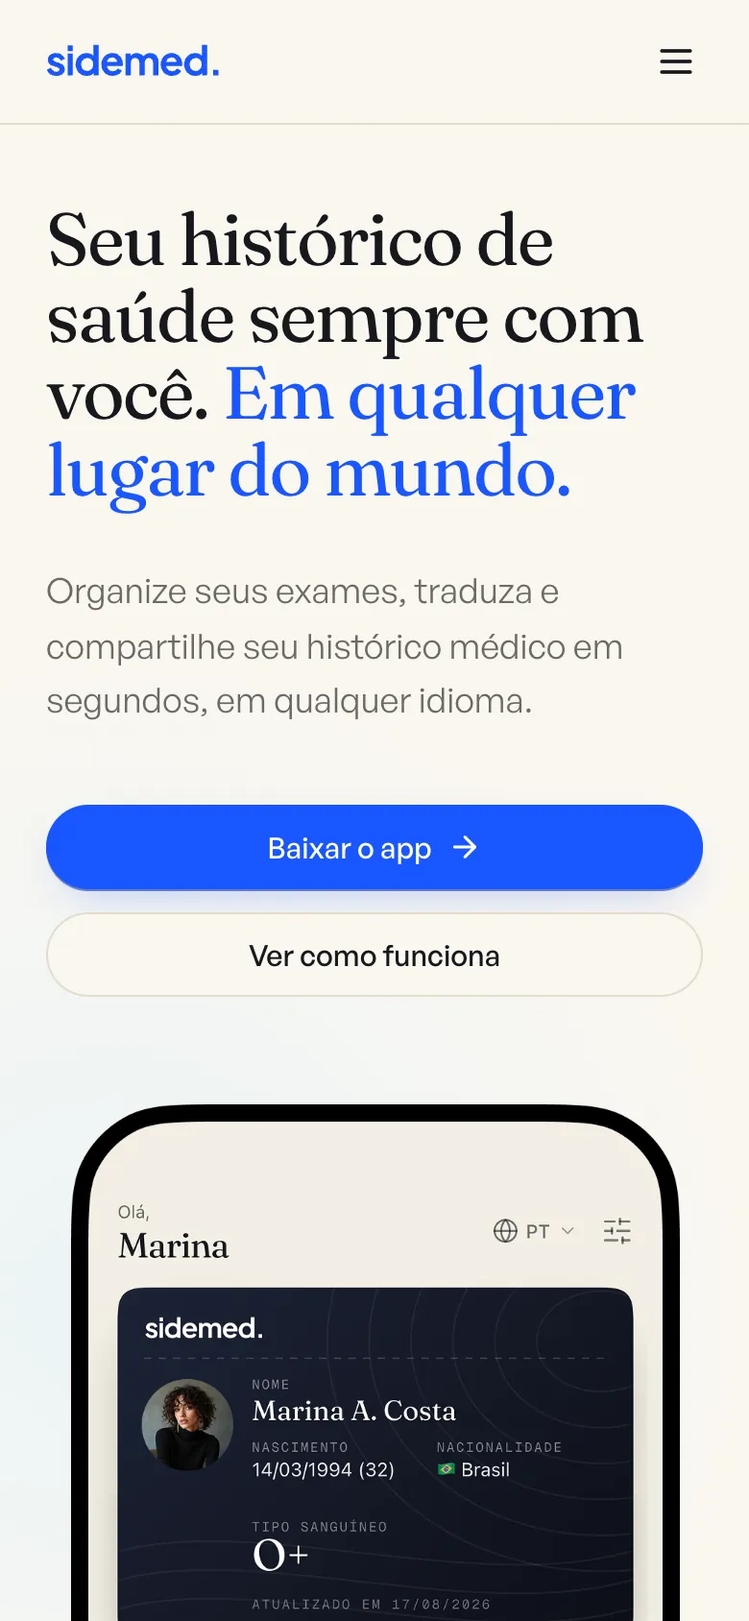
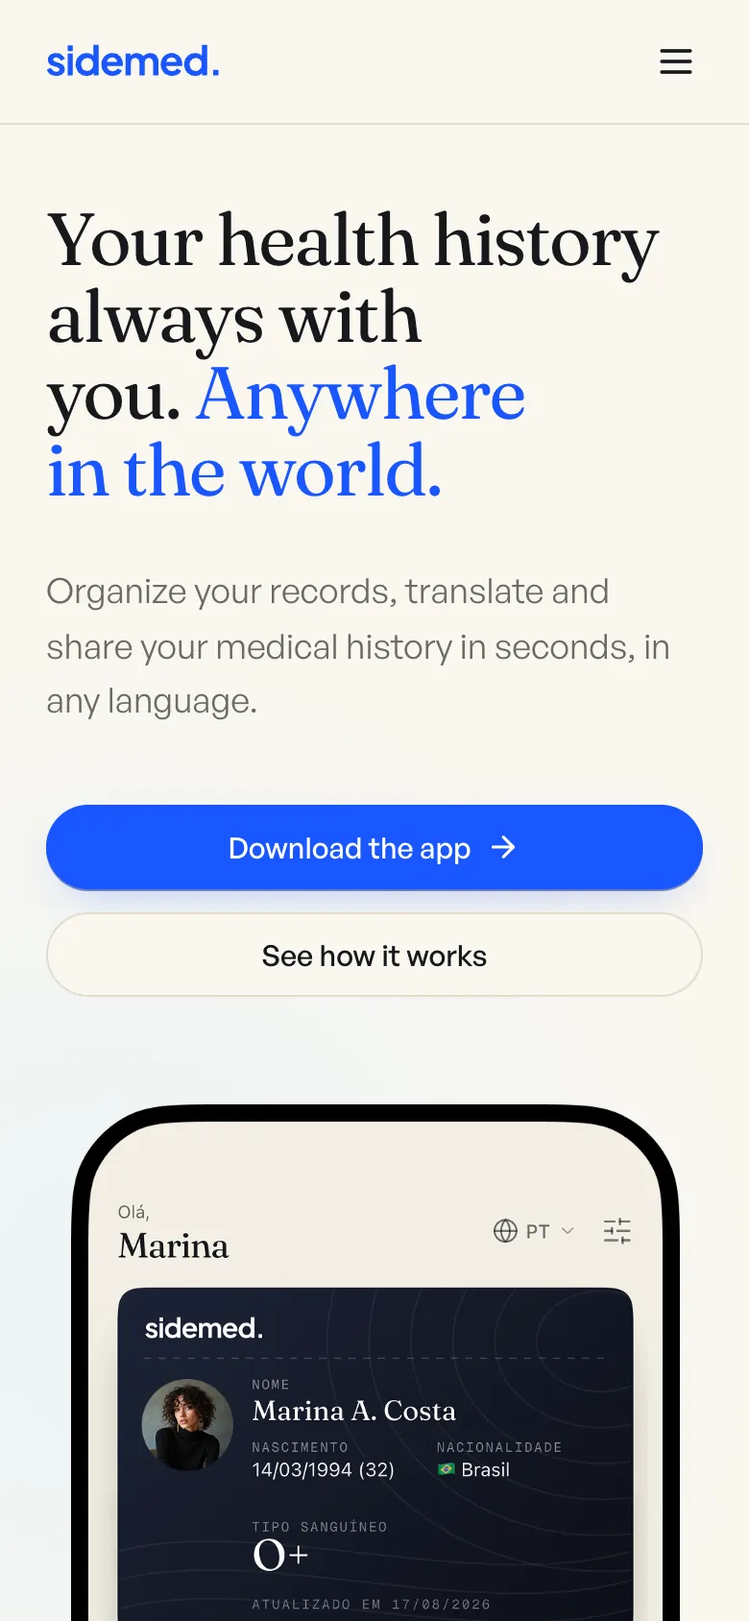
Rewrite the Sidemed story as a product story; sector-only card labels
- Sidemed's page now tells how it was conceived, planned and built:
  the question it answers, the passport idea, decisions made for the
  worst moment (seconds, no signal, privacy), and where it is today
  (used in 17 countries). The prototype screenshots and their caption
  are gone; the figures are clean sections of the live site (doctor
  page, security) and the phone view, each in the page's language.
- Home cards show only the sector: Sales, Marketplace, Health
  (PT: Vendas, Marketplace, Saúde).

diff --git a/pt/work/sidemed/index.html b/pt/work/sidemed/index.html
@@ -4,10 +4,10 @@
 <meta charset="utf-8">
 <meta name="viewport" content="width=device-width, initial-scale=1">
 <title>Sidemed: app de passaporte de saúde | Adscendo</title>
-<meta name="description" content="Como a Sidemed, um app de passaporte de saúde, saiu de um problema na fronteira para um app nativo de iOS e um site novo em 2026.">
+<meta name="description" content="Como a Sidemed, um app de passaporte de saúde hoje usado em 17 países, foi concebida, planejada e construída por nós.">
 <meta property="og:site_name" content="Adscendo">
 <meta property="og:title" content="Sidemed: app de passaporte de saúde | Adscendo">
-<meta property="og:description" content="Como a Sidemed, um app de passaporte de saúde, saiu de um problema na fronteira para um app nativo de iOS e um site novo em 2026.">
+<meta property="og:description" content="Como a Sidemed, um app de passaporte de saúde hoje usado em 17 países, foi concebida, planejada e construída por nós.">
 <meta property="og:type" content="website">
 <meta property="og:locale" content="pt_BR">
 <meta property="og:locale:alternate" content="en_US">
@@ -19,7 +19,7 @@
 <link href="https://fonts.googleapis.com/css2?family=Geist:wght@400;500;600&display=swap" rel="stylesheet">
 <link rel="stylesheet" href="/assets/site.css">
 <script>document.documentElement.classList.add("js")</script>
-<script type="application/ld+json">{"@context":"https://schema.org","@graph":[{"@type":"CreativeWork","name":"Sidemed","headline":"Um passaporte de saúde que leva seu histórico médico através das fronteiras.","description":"Como a Sidemed, um app de passaporte de saúde, saiu de um problema na fronteira para um app nativo de iOS e um site novo em 2026.","inLanguage":"pt-BR","creator":{"@type":"Organization","name":"Adscendo"},"url":"https://www.sidemed.com.br/"}]}</script>
+<script type="application/ld+json">{"@context":"https://schema.org","@graph":[{"@type":"CreativeWork","name":"Sidemed","headline":"Um passaporte de saúde que leva seu histórico médico através das fronteiras.","description":"Como a Sidemed, um app de passaporte de saúde hoje usado em 17 países, foi concebida, planejada e construída por nós.","inLanguage":"pt-BR","creator":{"@type":"Organization","name":"Adscendo"},"url":"https://www.sidemed.com.br/"}]}</script>
 </head>
 <body>
 <svg width="0" height="0" style="position:absolute" aria-hidden="true">
@@ -50,30 +50,30 @@
     <p class="lede">Um passaporte de saúde que leva seu histórico médico através das fronteiras.</p>
     <div class="actions-row"><a class="btn" href="https://www.sidemed.com.br/" target="_blank" rel="noopener">Ver site<svg aria-hidden="true"><use href="#out"/></svg></a><a class="btn btn--ghost" href="https://apps.apple.com/app/apple-store/id6762412760" target="_blank" rel="noopener">App Store<svg aria-hidden="true"><use href="#out"/></svg></a><a class="btn btn--ghost" href="https://play.google.com/store/apps/details?id=br.com.sidemed" target="_blank" rel="noopener">Google Play<svg aria-hidden="true"><use href="#out"/></svg></a></div>
     <dl class="facts"><div><dt>O que fizemos</dt><dd>Planejado e construído por nós</dd></div><div><dt>Quando</dt><dd>2026</dd></div><div><dt>Plataforma</dt><dd>iOS, Android, web</dd></div><div><dt>Status</dt><dd>Usada em 17 países</dd></div></dl>
-    <div class="duo"><div class="browser"><div class="bar" aria-hidden="true"><i></i><i></i><i></i><span>sidemed.com.br</span></div><img src="/assets/work/sidemed/hero.pt.webp" width="1600" height="1000" alt="Sidemed, computador" fetchpriority="high" decoding="async"></div><div class="phone"><div class="frame"><div class="screen"><div class="status" style="background:#faf7f0" aria-hidden="true"><span>9:41</span><i class="island"></i><svg><use href="#status"/></svg></div><img src="/assets/work/sidemed/site-m.webp" width="780" height="1688" alt="Sidemed, celular" fetchpriority="high" decoding="async"></div></div></div></div>
+    <div class="duo"><div class="browser"><div class="bar" aria-hidden="true"><i></i><i></i><i></i><span>sidemed.com.br</span></div><img src="/assets/work/sidemed/hero.pt.webp" width="1600" height="1000" alt="Sidemed, computador" fetchpriority="high" decoding="async"></div><div class="phone"><div class="frame"><div class="screen"><div class="status" style="background:#faf7f0" aria-hidden="true"><span>9:41</span><i class="island"></i><svg><use href="#status"/></svg></div><img src="/assets/work/sidemed/site-m.pt.webp" width="780" height="1688" alt="Sidemed, celular" fetchpriority="high" decoding="async"></div></div></div></div>
   </section>
 
   <section class="band">
     <div class="wrap chapters" data-rise=".chapter header, .chapter .text, .chapter figure">
       <article class="chapter">
-        <header><p class="num">01</p><h2>Seu histórico fica para trás.</h2></header>
-        <div class="text"><p>Toda vez que você cruza uma fronteira, seu histórico médico fica para trás. Exames esquecidos numa gaveta, a um oceano de distância. Alergias e condições que só você conhece. Um médico que não fala sua língua, muitas vezes numa emergência.</p><p>A Sidemed nasceu dessa lacuna: a informação que mais importa é justamente a que pior viaja.</p></div>
+        <header><p class="num">01</p><h2>Começou com uma pergunta.</h2></header>
+        <div class="text"><p>O que acontece com o seu histórico médico quando você cruza uma fronteira? Quase tudo fica para trás: exames numa gaveta em casa, alergias que só você lembra e um médico que não fala sua língua, muitas vezes numa emergência.</p><p>A Sidemed nasceu para fechar essa lacuna.</p></div>
         
       </article>
       <article class="chapter">
-        <header><p class="num">02</p><h2>Fazer uma coisa muito bem feita.</h2></header>
-        <div class="text"><p>A especificação do produto começa com uma premissa só: numa emergência, não pode haver atrito. Cada toque a menos na tela pode fazer diferença.</p><p>Três princípios guiaram cada decisão.</p><ul><li><b>Simplicidade radical</b>Chegar à informação em segundos.</li><li><b>Confiança como fundação</b>LGPD e GDPR tratadas como funcionalidade, não como burocracia.</li><li><b>Ecossistema, não funcionalidade</b>Cada tela nova aumenta o valor das anteriores.</li></ul></div>
-        
+        <header><p class="num">02</p><h2>Um passaporte para a sua saúde.</h2></header>
+        <div class="text"><p>A ideia foi usar algo que todo mundo já entende: um passaporte. Um só lugar para histórico médico, alergias, medicamentos, vacinas, tipo sanguíneo e contatos de emergência, pronto para mostrar a qualquer médico em segundos.</p><p>Do lado do médico, tudo cabe numa página, com as alergias em primeiro lugar, no idioma dele.</p></div>
+        <figure class="shot"><div class="browser"><div class="bar" aria-hidden="true"><i></i><i></i><i></i><span>sidemed.com.br</span></div><img src="/assets/work/sidemed/doctor.pt.webp" width="1600" height="1000" alt="Tudo o que um médico precisa saber, numa página." loading="lazy" decoding="async"></div><figcaption>Tudo o que um médico precisa saber, numa página.</figcaption></figure>
       </article>
       <article class="chapter">
-        <header><p class="num">03</p><h2>O passaporte é o produto.</h2></header>
-        <div class="text"><p>O conceito visual leva o documento de viagem ao pé da letra. Papel quente, tinta, o azul Sidemed e um cartão navy com guilloché e rótulos em fonte mono, como um passaporte de verdade.</p><p>Antes de escrever o código do app, o fluxo inteiro foi desenhado num protótipo de alta fidelidade: 28 telas, do cadastro ao compartilhamento com o médico, prontas para o time revisar.</p></div>
-        <figure class="shot"><div class="canvas-band"><img style="width:100%;height:auto;border-radius:12px" src="/assets/work/sidemed/app.webp" width="1600" height="1000" alt="Parte do protótipo de 28 telas: entrada, login, estado de erro e onboarding." loading="lazy" decoding="async"></div><figcaption>Parte do protótipo de 28 telas: entrada, login, estado de erro e onboarding.</figcaption></figure>
+        <header><p class="num">03</p><h2>Pensado para o pior momento.</h2></header>
+        <div class="text"><p>Cada decisão foi tomada para o momento em que a Sidemed mais importa: uma emergência longe de casa, sob estresse, talvez sem sinal.</p><ul><li><b>Segundos, não minutos</b>O essencial fica a um toque.</li><li><b>Funciona sem sinal</b>QR code e PDF de emergência, disponíveis offline.</li><li><b>Privacidade desde o início</b>Criptografia de ponta a ponta, conformidade com LGPD e GDPR, e acessos que você revoga quando quiser.</li></ul></div>
+        <figure class="shot"><div class="browser"><div class="bar" aria-hidden="true"><i></i><i></i><i></i><span>sidemed.com.br</span></div><img src="/assets/work/sidemed/security.pt.webp" width="1600" height="1000" alt="Segurança faz parte do produto, não é nota de rodapé." loading="lazy" decoding="async"></div><figcaption>Segurança faz parte do produto, não é nota de rodapé.</figcaption></figure>
       </article>
       <article class="chapter">
-        <header><p class="num">04</p><h2>Do protótipo às lojas.</h2></header>
-        <div class="text"><p>O protótipo virou um app nativo em SwiftUI. Você conta sua história, o app organiza tudo num passaporte estruturado, e você compartilha por QR code ou link seguro, traduzido para o idioma do médico. Ele fala português, inglês e espanhol.</p><p>Em setembro, um site novo entrou no ar. As telas do app nele são reconstruídas em HTML e CSS, não coladas como imagem, então ficam nítidas em qualquer tela e podem se mexer. E ele mostra o botão da loja certa para o seu celular.</p><p>Hoje a Sidemed é usada em 17 países.</p></div>
-        <figure class="shot"><div class="canvas-band phones"><div class="phone"><div class="frame"><div class="screen"><div class="status" style="background:#faf7f0" aria-hidden="true"><span>9:41</span><i class="island"></i><svg><use href="#status"/></svg></div><img src="/assets/work/sidemed/site-m.webp" width="780" height="1688" alt="sidemed.com.br no celular." loading="lazy" decoding="async"></div></div></div></div><figcaption>sidemed.com.br no celular.</figcaption></figure>
+        <header><p class="num">04</p><h2>Usada em 17 países.</h2></header>
+        <div class="text"><p>Construímos a Sidemed como app para iPhone e Android, em português, inglês e espanhol, com um site que explica tudo em segundos.</p><p>Hoje, pessoas em 17 países levam o próprio histórico de saúde com elas.</p></div>
+        <figure class="shot"><div class="canvas-band phones"><div class="phone"><div class="frame"><div class="screen"><div class="status" style="background:#faf7f0" aria-hidden="true"><span>9:41</span><i class="island"></i><svg><use href="#status"/></svg></div><img src="/assets/work/sidemed/site-m.pt.webp" width="780" height="1688" alt="sidemed.com.br no celular." loading="lazy" decoding="async"></div></div></div></div><figcaption>sidemed.com.br no celular.</figcaption></figure>
       </article>
     </div>
   </section>

diff --git a/work/sidemed/index.html b/work/sidemed/index.html
@@ -4,10 +4,10 @@
 <meta charset="utf-8">
 <meta name="viewport" content="width=device-width, initial-scale=1">
 <title>Sidemed: a health passport app across borders | Adscendo</title>
-<meta name="description" content="How Sidemed, a health passport app, went from a problem at the border to a native iOS app and a new website in 2026.">
+<meta name="description" content="How Sidemed, a health passport app now used in 17 countries, was conceived, planned and built in-house.">
 <meta property="og:site_name" content="Adscendo">
 <meta property="og:title" content="Sidemed: a health passport app across borders | Adscendo">
-<meta property="og:description" content="How Sidemed, a health passport app, went from a problem at the border to a native iOS app and a new website in 2026.">
+<meta property="og:description" content="How Sidemed, a health passport app now used in 17 countries, was conceived, planned and built in-house.">
 <meta property="og:type" content="website">
 <meta property="og:locale" content="en_US">
 <meta property="og:locale:alternate" content="pt_BR">
@@ -19,7 +19,7 @@
 <link href="https://fonts.googleapis.com/css2?family=Geist:wght@400;500;600&display=swap" rel="stylesheet">
 <link rel="stylesheet" href="/assets/site.css">
 <script>document.documentElement.classList.add("js")</script>
-<script type="application/ld+json">{"@context":"https://schema.org","@graph":[{"@type":"CreativeWork","name":"Sidemed","headline":"A health passport that carries your medical history across borders.","description":"How Sidemed, a health passport app, went from a problem at the border to a native iOS app and a new website in 2026.","inLanguage":"en","creator":{"@type":"Organization","name":"Adscendo"},"url":"https://www.sidemed.com.br/"}]}</script>
+<script type="application/ld+json">{"@context":"https://schema.org","@graph":[{"@type":"CreativeWork","name":"Sidemed","headline":"A health passport that carries your medical history across borders.","description":"How Sidemed, a health passport app now used in 17 countries, was conceived, planned and built in-house.","inLanguage":"en","creator":{"@type":"Organization","name":"Adscendo"},"url":"https://www.sidemed.com.br/"}]}</script>
 </head>
 <body>
 <svg width="0" height="0" style="position:absolute" aria-hidden="true">
@@ -56,23 +56,23 @@
   <section class="band">
     <div class="wrap chapters" data-rise=".chapter header, .chapter .text, .chapter figure">
       <article class="chapter">
-        <header><p class="num">01</p><h2>Your history stays behind.</h2></header>
-        <div class="text"><p>Every time you cross a border, your medical history stays behind. Exams forgotten in a drawer an ocean away. Allergies and conditions that only you know about. A doctor who doesn't speak your language, often in an emergency.</p><p>Sidemed started from that gap: the information that matters most is exactly the one that travels worst.</p></div>
+        <header><p class="num">01</p><h2>It started with one question.</h2></header>
+        <div class="text"><p>What happens to your medical history when you cross a border? Most of it stays behind: exams in a drawer back home, allergies only you remember, and a doctor who doesn't speak your language, often in an emergency.</p><p>Sidemed was created to close that gap.</p></div>
         
       </article>
       <article class="chapter">
-        <header><p class="num">02</p><h2>Do one thing very well.</h2></header>
-        <div class="text"><p>The product spec opens with a single premise: in an emergency there can be no friction. Every tap you remove from the screen can matter.</p><p>Three principles guided every decision.</p><ul><li><b>Radical simplicity</b>Get to the information in seconds.</li><li><b>Trust as the foundation</b>LGPD and GDPR treated as features, not compliance.</li><li><b>An ecosystem, not a feature</b>Every new screen makes the earlier ones more valuable.</li></ul></div>
-        
+        <header><p class="num">02</p><h2>One passport for your health.</h2></header>
+        <div class="text"><p>The idea was to use something everyone already understands: a passport. One place for your medical history, allergies, medications, vaccines, blood type and emergency contacts, ready to show any doctor in seconds.</p><p>On the doctor's side, everything fits on one page, allergies first, in the doctor's own language.</p></div>
+        <figure class="shot"><div class="browser"><div class="bar" aria-hidden="true"><i></i><i></i><i></i><span>sidemed.com.br</span></div><img src="/assets/work/sidemed/doctor.webp" width="1600" height="1000" alt="Everything a doctor needs to know, on one page." loading="lazy" decoding="async"></div><figcaption>Everything a doctor needs to know, on one page.</figcaption></figure>
       </article>
       <article class="chapter">
-        <header><p class="num">03</p><h2>The passport is the product.</h2></header>
-        <div class="text"><p>The visual concept takes the travel document literally. Warm paper, ink, Sidemed blue, and a navy card with a guilloché pattern and monospaced labels, like a real passport.</p><p>Before writing app code, the whole flow was designed as a high-fidelity prototype: 28 screens, from sign-up to sharing with a doctor, ready for the team to review.</p></div>
-        <figure class="shot"><div class="canvas-band"><img style="width:100%;height:auto;border-radius:12px" src="/assets/work/sidemed/app.webp" width="1600" height="1000" alt="Part of the 28-screen prototype: entry, sign-in, error state and onboarding." loading="lazy" decoding="async"></div><figcaption>Part of the 28-screen prototype: entry, sign-in, error state and onboarding.</figcaption></figure>
+        <header><p class="num">03</p><h2>Planned for the worst moment.</h2></header>
+        <div class="text"><p>Every decision was made for the moment Sidemed matters most: an emergency far from home, under stress, maybe with no signal.</p><ul><li><b>Seconds, not minutes</b>The essentials are one tap away.</li><li><b>Works with no signal</b>A QR code and an emergency PDF, available offline.</li><li><b>Private by design</b>End-to-end encryption, LGPD and GDPR compliance, and access you can revoke at any time.</li></ul></div>
+        <figure class="shot"><div class="browser"><div class="bar" aria-hidden="true"><i></i><i></i><i></i><span>sidemed.com.br</span></div><img src="/assets/work/sidemed/security.webp" width="1600" height="1000" alt="Security is part of the product, not a footnote." loading="lazy" decoding="async"></div><figcaption>Security is part of the product, not a footnote.</figcaption></figure>
       </article>
       <article class="chapter">
-        <header><p class="num">04</p><h2>From prototype to the stores.</h2></header>
-        <div class="text"><p>The prototype became a native SwiftUI app. You tell your story, the app organizes it into a structured passport, and you share it by QR code or secure link, translated into your doctor's language. It speaks Portuguese, English and Spanish.</p><p>In September a new website went live. The app screens on it are rebuilt in HTML and CSS instead of pasted as images, so they stay sharp on any display and can move. It shows the right store button for your phone.</p><p>Today Sidemed is used in 17 countries.</p></div>
+        <header><p class="num">04</p><h2>Used in 17 countries.</h2></header>
+        <div class="text"><p>We built Sidemed as an app for iPhone and Android, in English, Portuguese and Spanish, with a website that explains it in seconds.</p><p>Today, people in 17 countries carry their health history with them.</p></div>
         <figure class="shot"><div class="canvas-band phones"><div class="phone"><div class="frame"><div class="screen"><div class="status" style="background:#faf7f0" aria-hidden="true"><span>9:41</span><i class="island"></i><svg><use href="#status"/></svg></div><img src="/assets/work/sidemed/site-m.webp" width="780" height="1688" alt="sidemed.com.br on a phone." loading="lazy" decoding="async"></div></div></div></div><figcaption>sidemed.com.br on a phone.</figcaption></figure>
       </article>
     </div>

diff --git a/pt/index.html b/pt/index.html
@@ -81,15 +81,15 @@
       <p class="lede">Produtos e sites que desenhamos.</p>
       <ul class="projects">
       <li class="proj" style="--tint:#e8edf4">
-        <div class="text"><p class="eyebrow">Nosso produto · Vendas</p><h3>Prospector</h3><p>Acha empresas no mapa, analisa cada uma, escreve um email pessoal e acompanha cada lead num CRM. Nada sai sem a sua aprovação.</p><div class="proj-actions"><a class="link stretch" href="/pt/work/prospector">Ler a história completa<svg aria-hidden="true"><use href="#arrow"/></svg></a><a class="btn btn--sm cta" href="https://adscendo-prospector.vercel.app/" target="_blank" rel="noopener">Teste grátis<svg aria-hidden="true"><use href="#out"/></svg></a></div></div>
+        <div class="text"><p class="eyebrow">Vendas</p><h3>Prospector</h3><p>Acha empresas no mapa, analisa cada uma, escreve um email pessoal e acompanha cada lead num CRM. Nada sai sem a sua aprovação.</p><div class="proj-actions"><a class="link stretch" href="/pt/work/prospector">Ler a história completa<svg aria-hidden="true"><use href="#arrow"/></svg></a><a class="btn btn--sm cta" href="https://adscendo-prospector.vercel.app/" target="_blank" rel="noopener">Teste grátis<svg aria-hidden="true"><use href="#out"/></svg></a></div></div>
         <div class="media"><div class="browser"><div class="bar" aria-hidden="true"><i></i><i></i><i></i><span>adscendo-prospector.vercel.app</span></div><img src="/assets/work/prospector/globe.pt.webp" width="1600" height="1000" alt="Prospector" loading="lazy" decoding="async"></div></div>
       </li>
       <li class="proj" style="--tint:#e5efe8">
-        <div class="text"><p class="eyebrow">Projeto de cliente · Marketplace</p><h3>Minha companhia</h3><p>A família contrata profissionais verificadas para acompanhar os pais idosos na consulta, no banco ou no mercado.</p><div class="proj-actions"><a class="link stretch" href="/pt/work/minha-companhia">Ler a história completa<svg aria-hidden="true"><use href="#arrow"/></svg></a><a class="btn btn--sm cta" href="https://minhacompanhia.com.br/" target="_blank" rel="noopener">Acesse e veja você mesmo<svg aria-hidden="true"><use href="#out"/></svg></a></div></div>
+        <div class="text"><p class="eyebrow">Marketplace</p><h3>Minha companhia</h3><p>A família contrata profissionais verificadas para acompanhar os pais idosos na consulta, no banco ou no mercado.</p><div class="proj-actions"><a class="link stretch" href="/pt/work/minha-companhia">Ler a história completa<svg aria-hidden="true"><use href="#arrow"/></svg></a><a class="btn btn--sm cta" href="https://minhacompanhia.com.br/" target="_blank" rel="noopener">Acesse e veja você mesmo<svg aria-hidden="true"><use href="#out"/></svg></a></div></div>
         <div class="media"><div class="browser"><div class="bar" aria-hidden="true"><i></i><i></i><i></i><span>minhacompanhia.com.br</span></div><img src="/assets/work/minha-companhia/home.webp" width="1440" height="900" alt="Minha companhia" loading="lazy" decoding="async"></div></div>
       </li>
       <li class="proj" style="--tint:#f3eee3">
-        <div class="text"><p class="eyebrow">Fundador · Saúde</p><h3>Sidemed</h3><p>Seu histórico médico organizado, traduzido para o idioma do médico e compartilhado em segundos. Usada em 17 países.</p><div class="proj-actions"><a class="link stretch" href="/pt/work/sidemed">Ler a história completa<svg aria-hidden="true"><use href="#arrow"/></svg></a><a class="btn btn--sm cta" href="https://www.sidemed.com.br/app" target="_blank" rel="noopener">Baixe grátis agora<svg aria-hidden="true"><use href="#out"/></svg></a></div></div>
+        <div class="text"><p class="eyebrow">Saúde</p><h3>Sidemed</h3><p>Seu histórico médico organizado, traduzido para o idioma do médico e compartilhado em segundos. Usada em 17 países.</p><div class="proj-actions"><a class="link stretch" href="/pt/work/sidemed">Ler a história completa<svg aria-hidden="true"><use href="#arrow"/></svg></a><a class="btn btn--sm cta" href="https://www.sidemed.com.br/app" target="_blank" rel="noopener">Baixe grátis agora<svg aria-hidden="true"><use href="#out"/></svg></a></div></div>
         <div class="media"><div class="browser"><div class="bar" aria-hidden="true"><i></i><i></i><i></i><span>sidemed.com.br</span></div><img src="/assets/work/sidemed/hero.pt.webp" width="1600" height="1000" alt="Sidemed" loading="lazy" decoding="async"></div></div>
       </li>
       </ul>

diff --git a/index.html b/index.html
@@ -81,15 +81,15 @@
       <p class="lede">Products and websites we have designed.</p>
       <ul class="projects">
       <li class="proj" style="--tint:#e8edf4">
-        <div class="text"><p class="eyebrow">Our product · Sales</p><h3>Prospector</h3><p>Finds businesses on the map, analyzes each one, writes a personal email and follows every lead in a CRM. Nothing goes out without your approval.</p><div class="proj-actions"><a class="link stretch" href="/work/prospector">Read the full story<svg aria-hidden="true"><use href="#arrow"/></svg></a><a class="btn btn--sm cta" href="https://adscendo-prospector.vercel.app/" target="_blank" rel="noopener">Try it free<svg aria-hidden="true"><use href="#out"/></svg></a></div></div>
+        <div class="text"><p class="eyebrow">Sales</p><h3>Prospector</h3><p>Finds businesses on the map, analyzes each one, writes a personal email and follows every lead in a CRM. Nothing goes out without your approval.</p><div class="proj-actions"><a class="link stretch" href="/work/prospector">Read the full story<svg aria-hidden="true"><use href="#arrow"/></svg></a><a class="btn btn--sm cta" href="https://adscendo-prospector.vercel.app/" target="_blank" rel="noopener">Try it free<svg aria-hidden="true"><use href="#out"/></svg></a></div></div>
         <div class="media"><div class="browser"><div class="bar" aria-hidden="true"><i></i><i></i><i></i><span>adscendo-prospector.vercel.app</span></div><img src="/assets/work/prospector/globe.webp" width="1600" height="1000" alt="Prospector" loading="lazy" decoding="async"></div></div>
       </li>
       <li class="proj" style="--tint:#e5efe8">
-        <div class="text"><p class="eyebrow">Client project · Marketplace</p><h3>Minha companhia</h3><p>Families book verified professionals to go with their elderly parents to appointments, the bank or the market.</p><div class="proj-actions"><a class="link stretch" href="/work/minha-companhia">Read the full story<svg aria-hidden="true"><use href="#arrow"/></svg></a><a class="btn btn--sm cta" href="https://minhacompanhia.com.br/" target="_blank" rel="noopener">See it for yourself<svg aria-hidden="true"><use href="#out"/></svg></a></div></div>
+        <div class="text"><p class="eyebrow">Marketplace</p><h3>Minha companhia</h3><p>Families book verified professionals to go with their elderly parents to appointments, the bank or the market.</p><div class="proj-actions"><a class="link stretch" href="/work/minha-companhia">Read the full story<svg aria-hidden="true"><use href="#arrow"/></svg></a><a class="btn btn--sm cta" href="https://minhacompanhia.com.br/" target="_blank" rel="noopener">See it for yourself<svg aria-hidden="true"><use href="#out"/></svg></a></div></div>
         <div class="media"><div class="browser"><div class="bar" aria-hidden="true"><i></i><i></i><i></i><span>minhacompanhia.com.br</span></div><img src="/assets/work/minha-companhia/home.webp" width="1440" height="900" alt="Minha companhia" loading="lazy" decoding="async"></div></div>
       </li>
       <li class="proj" style="--tint:#f3eee3">
-        <div class="text"><p class="eyebrow">Founder · Health</p><h3>Sidemed</h3><p>Your medical history, organized, translated into your doctor's language and shared in seconds. Used in 17 countries.</p><div class="proj-actions"><a class="link stretch" href="/work/sidemed">Read the full story<svg aria-hidden="true"><use href="#arrow"/></svg></a><a class="btn btn--sm cta" href="https://www.sidemed.com.br/app" target="_blank" rel="noopener">Download free now<svg aria-hidden="true"><use href="#out"/></svg></a></div></div>
+        <div class="text"><p class="eyebrow">Health</p><h3>Sidemed</h3><p>Your medical history, organized, translated into your doctor's language and shared in seconds. Used in 17 countries.</p><div class="proj-actions"><a class="link stretch" href="/work/sidemed">Read the full story<svg aria-hidden="true"><use href="#arrow"/></svg></a><a class="btn btn--sm cta" href="https://www.sidemed.com.br/app" target="_blank" rel="noopener">Download free now<svg aria-hidden="true"><use href="#out"/></svg></a></div></div>
         <div class="media"><div class="browser"><div class="bar" aria-hidden="true"><i></i><i></i><i></i><span>sidemed.com.br</span></div><img src="/assets/work/sidemed/hero.webp" width="1600" height="1000" alt="Sidemed" loading="lazy" decoding="async"></div></div>
       </li>
       </ul>
